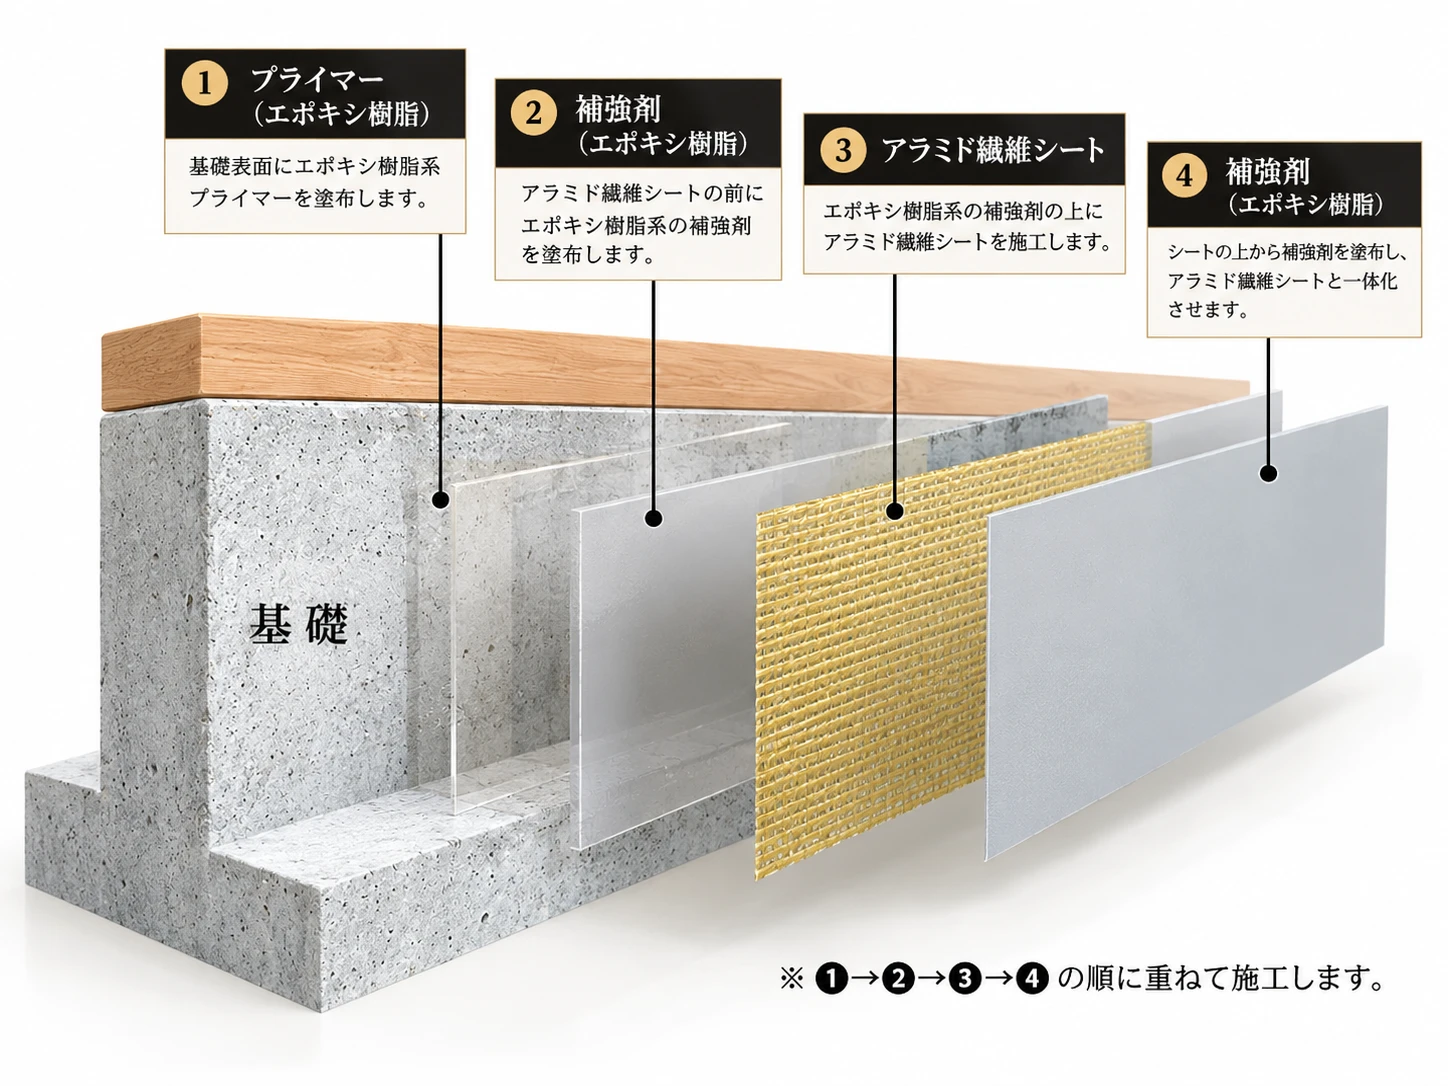
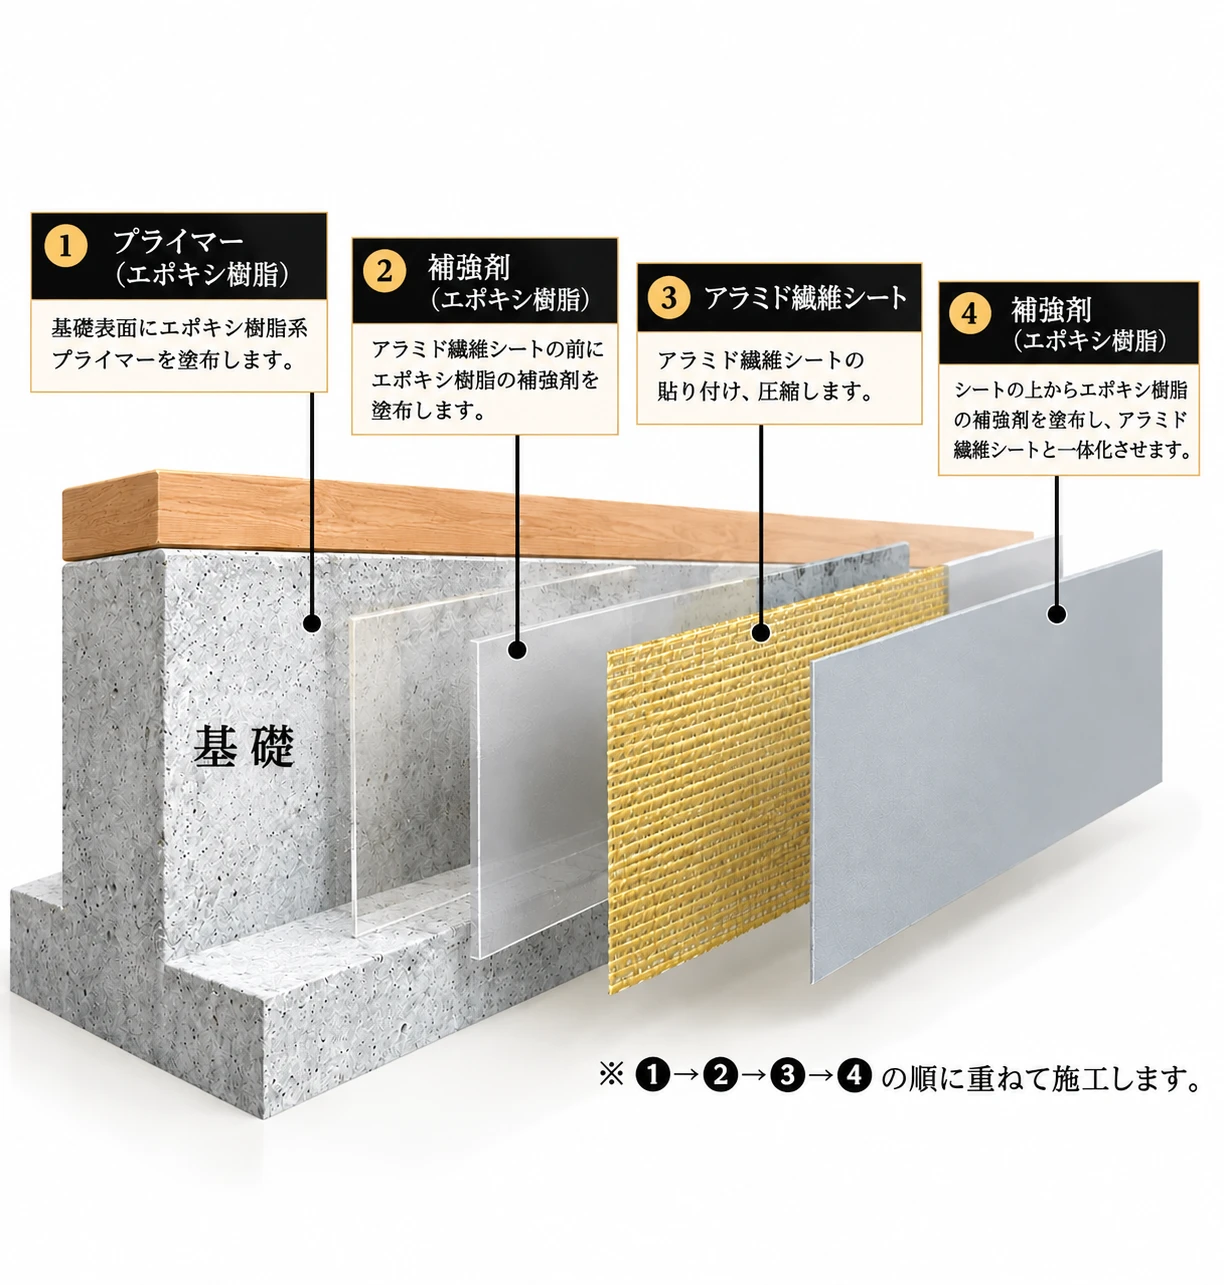
基礎補強施工図とシロアリページの画像表記を修正

diff --git a/foundation-repair/index.html b/foundation-repair/index.html
@@ -269,12 +269,12 @@
       <figure class="sp-diagram">
         <div class="sp-diagram__frame">
           <div class="sp-diagram__scroll">
-            <img src="/images/foundation-repair/aramid-reinforcement-process.webp" alt="エポキシ樹脂とアラミド繊維シートを使用した基礎補強の施工工程図" width="1448" height="1086" loading="lazy" decoding="async" />
+            <img src="/images/foundation-repair/aramid-reinforcement-process.webp" alt="アラミド繊維シートによる基礎補強の施工工程図（①プライマー（エポキシ樹脂）→②補強剤（エポキシ樹脂）→③アラミド繊維シート→④補強剤（エポキシ樹脂）の順に重ねて施工）" width="1224" height="1285" loading="lazy" decoding="async" />
           </div>
         </div>
         <figcaption class="sp-diagram__caption">
-          エポキシ樹脂とアラミド繊維シートを重ねて施工する基礎補強のイメージ
-          <span class="sp-diagram__note">図は、下地・クラック処理後に行う、プライマー塗布から補強剤の塗布・含浸までの工程を示しています。</span>
+          アラミド繊維シートによる基礎補強の施工工程図
+          <span class="sp-diagram__note"><span class="sp-phrase">図は、</span><span class="sp-phrase">下地・クラック処理後に行う、</span><span class="sp-phrase">プライマー（エポキシ樹脂）→</span><span class="sp-phrase">補強剤（エポキシ樹脂）→</span><span class="sp-phrase">アラミド繊維シートの</span><span class="sp-phrase">貼り付け・圧縮→</span><span class="sp-phrase">補強剤（エポキシ樹脂）の</span><span class="sp-phrase">工程（STEP 02〜05）を</span><span class="sp-phrase">示しています。</span></span>
           <span class="sp-diagram__hint"><a href="/images/foundation-repair/aramid-reinforcement-process.webp" target="_blank" rel="noopener">拡大して見る</a></span>
         </figcaption>
       </figure>
@@ -300,22 +300,22 @@
           <li class="sp-step">
             <p class="sp-step__number">STEP 03</p>
             <div class="sp-step__body">
-              <h4 class="sp-step__title">補強剤塗布</h4>
-              <p class="sp-step__desc">アラミド繊維シートの施工前に、エポキシ樹脂系の補強剤を塗布します。</p>
+              <h4 class="sp-step__title"><span class="sp-phrase">補強剤</span><span class="sp-phrase">（エポキシ樹脂）</span><span class="sp-phrase">塗布</span></h4>
+              <p class="sp-step__desc">アラミド繊維シートの前に、エポキシ樹脂の補強剤を塗布します。</p>
             </div>
           </li>
           <li class="sp-step">
             <p class="sp-step__number">STEP 04</p>
             <div class="sp-step__body">
-              <h4 class="sp-step__title">アラミド繊維シート施工</h4>
-              <p class="sp-step__desc">補強剤の上からアラミド繊維シートを施工します。</p>
+              <h4 class="sp-step__title"><span class="sp-phrase">アラミド繊維</span><span class="sp-phrase">シートの</span><span class="sp-phrase">貼り付け・圧縮</span></h4>
+              <p class="sp-step__desc">補強剤の上からアラミド繊維シートを貼り付け、圧縮します。</p>
             </div>
           </li>
           <li class="sp-step">
             <p class="sp-step__number">STEP 05</p>
             <div class="sp-step__body">
-              <h4 class="sp-step__title">補強剤塗布・含浸</h4>
-              <p class="sp-step__desc">シートの上から補強剤を塗布・含浸させ、アラミド繊維シートと一体化させます。</p>
+              <h4 class="sp-step__title"><span class="sp-phrase">補強剤</span><span class="sp-phrase">（エポキシ樹脂）</span><span class="sp-phrase">塗布・含浸</span></h4>
+              <p class="sp-step__desc">シートの上からエポキシ樹脂の補強剤を塗布・含浸させ、アラミド繊維シートと一体化させます。</p>
             </div>
           </li>
           <li class="sp-step">

diff --git a/termite/index.html b/termite/index.html
@@ -159,9 +159,8 @@
 
         <figure class="sp-hero__figure">
           <div class="sp-hero__photo">
-            <img src="/images/termite/termite-treatment-image-a.webp" alt="床下の木部に薬剤を散布する施工イメージ" width="1445" height="1088" fetchpriority="high" />
+            <img src="/images/termite/termite-treatment-image-a.webp" alt="床下の木部への薬剤散布" width="1445" height="1088" fetchpriority="high" />
           </div>
-          <figcaption class="sp-hero__caption">施工イメージ（実際の施工写真ではありません）</figcaption>
         </figure>
       </div>
     </div>
@@ -319,9 +318,8 @@
 
         <figure class="sp-figure sp-figure--process sp-figure--landscape">
           <div class="sp-figure__photo">
-            <img src="/images/termite/termite-treatment-image-b.webp" alt="土台付近の木部に薬剤を散布する施工イメージ" width="1448" height="1086" loading="lazy" decoding="async" />
+            <img src="/images/termite/termite-treatment-image-b.webp" alt="土台付近の木部への薬剤散布" width="1448" height="1086" loading="lazy" decoding="async" />
           </div>
-          <figcaption class="sp-figure__caption">木部への薬剤散布のイメージ（施工イメージ）</figcaption>
         </figure>
       </div>
 

diff --git a/css/style.css b/css/style.css
@@ -3810,7 +3810,9 @@ select {
    どの画面幅でも図全体を枠いっぱいに縮小表示する（トリミング・横スクロールなし）。
    スマホでは細かい文字が小さくなるため、キャプションに「拡大して見る」リンクを出す。 */
 .sp-diagram {
-  margin: var(--space-7) 0 0;
+  margin: var(--space-7) auto 0;
+  /* 縦長に近い図のため、PCでは1画面に収まる幅に抑えて中央に置く */
+  max-width: 640px;
 }
 
 .sp-diagram__frame {
@@ -4058,16 +4060,9 @@ select {
 }
 
 /* --- /termite/ 用の追加指定（2026-09-26 追加・既存ルールは変更しない） --- */
-/* Hero の画像にキャプション（施工イメージ表記）を付けるための枠 */
+/* Hero の画像を figure で囲むための枠 */
 .sp-hero__figure {
   margin: 0;
-}
-
-.sp-hero__caption {
-  margin-top: var(--space-2);
-  font-size: var(--fs-xs);
-  letter-spacing: 0.04em;
-  color: var(--text-on-dark-muted);
 }
 
 /* 本文中の補足文・余白調整 */
